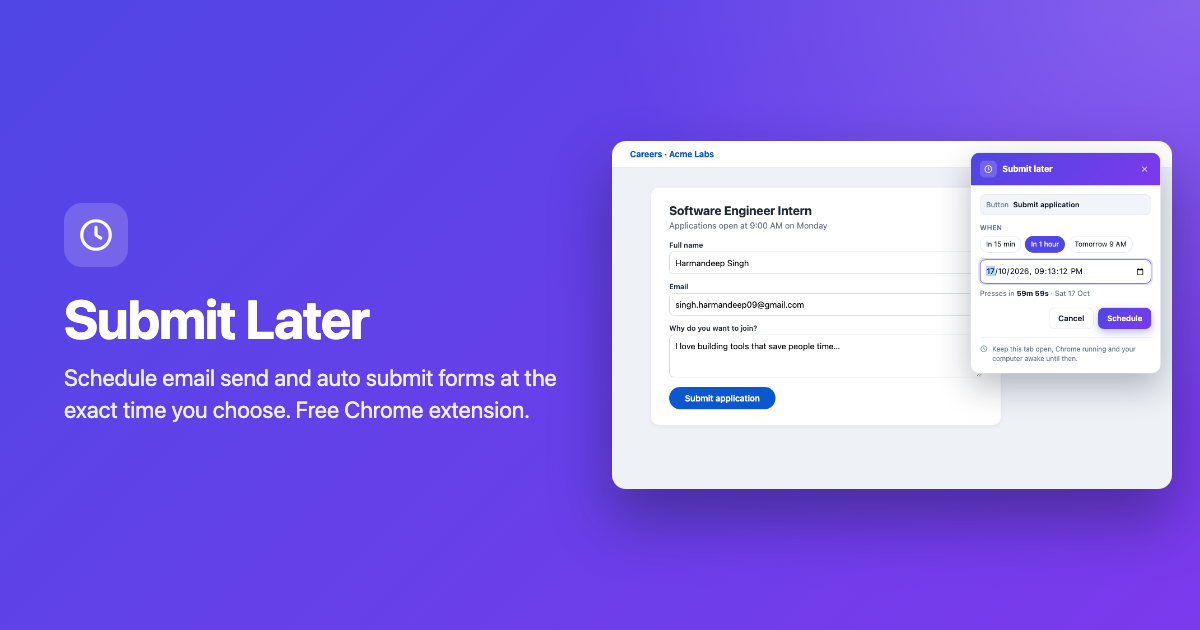
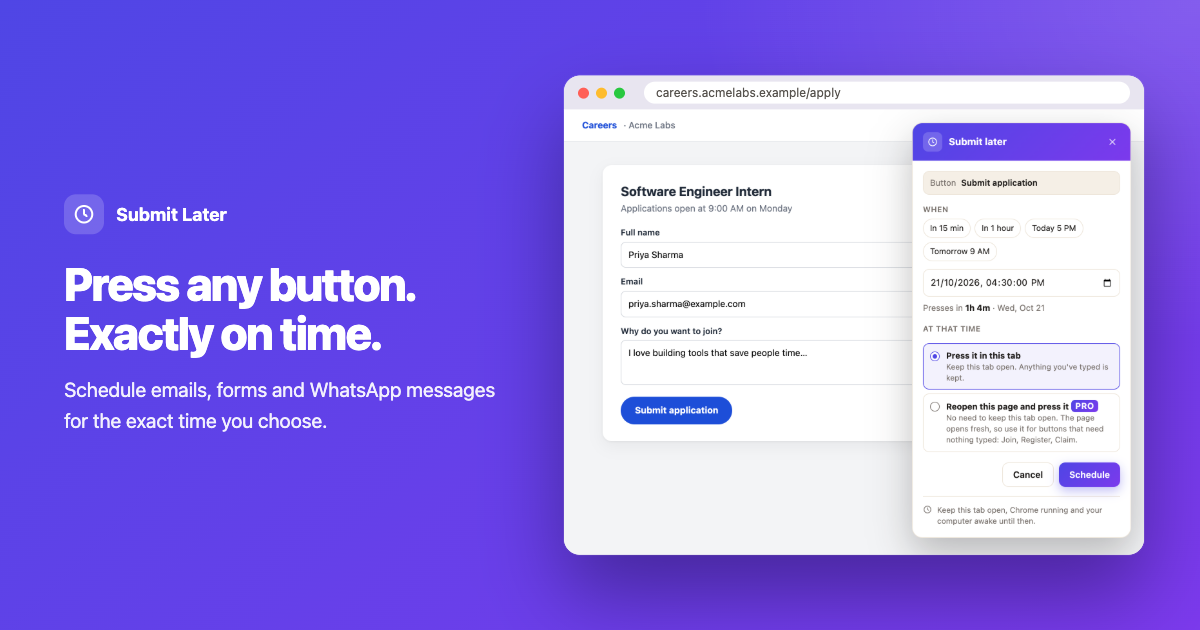
New UI in GIFs, How it works and mockups (waiting for extension 0.6.0 on the store)

Changed region(s): [[0.0308, 0.1206, 0.9867, 0.9952]]

diff --git a/index.html b/index.html
@@ -86,8 +86,12 @@
   </div>
   <div class="steps">
     <div class="step"><span class="ic g1"><svg viewBox="0 0 24 24" fill="none" stroke="currentColor" stroke-width="2" stroke-linecap="round" stroke-linejoin="round"><path d="M12 20h9"/><path d="M16.5 3.5a2.1 2.1 0 1 1 3 3L7 19l-4 1 1-4z"/></svg></span><b>Fill it in</b><p>Write the email, the WhatsApp message or the form exactly as you normally would.</p></div>
-    <div class="step"><span class="ic g2"><svg viewBox="0 0 24 24" fill="none" stroke="currentColor" stroke-width="2" stroke-linecap="round" stroke-linejoin="round"><circle cx="12" cy="12" r="8"/><circle cx="12" cy="12" r="2"/><path d="M12 2v3M12 19v3M2 12h3M19 12h3"/></svg></span><b>Pick the button</b><p>Click the Submit Later icon, then click Send, Submit or Join. It's only selected, not pressed.</p></div>
+    <div class="step"><span class="ic g2"><svg viewBox="0 0 24 24" fill="none" stroke="currentColor" stroke-width="2" stroke-linecap="round" stroke-linejoin="round"><circle cx="12" cy="12" r="8"/><circle cx="12" cy="12" r="2"/><path d="M12 2v3M12 19v3M2 12h3M19 12h3"/></svg></span><b>Pick the button</b><p>Click the Submit Later icon → <b>Pick a button to schedule</b>, then click Send, Submit or Join. It's only selected, not pressed.</p></div>
     <div class="step"><span class="ic g4"><svg viewBox="0 0 24 24" fill="none" stroke="currentColor" stroke-width="2" stroke-linecap="round" stroke-linejoin="round"><rect x="3" y="5" width="18" height="16" rx="2"/><path d="M3 10h18M8 3v4M16 3v4"/></svg></span><b>Choose the time</b><p>A quick pick or any date and time, to the second. It's pressed on time and you're notified.</p></div>
+  </div>
+  <div class="demo-pair">
+    <figure><div class="shot"><img src="how-it-works.gif" width="960" height="600" loading="lazy" alt="Animated demo: an email is written, the Send button is picked with Submit Later, Tomorrow 9 AM is chosen, and the next morning it's pressed on time and a notification confirms it."></div><figcaption><b>Any button</b> Pick it, choose the time, and it's pressed for you.</figcaption></figure>
+    <figure><div class="shot"><img src="whatsapp-demo.gif" width="960" height="600" loading="lazy" alt="Animated demo: two contacts are picked in Submit Later, a birthday message with a photo is scheduled for midnight, and at 12:00 AM WhatsApp Web sends it to each person one by one."></div><figcaption><b>WhatsApp messages</b> <span class="pro-badge">PRO</span> Pick people, write it, add a photo, and it's sent one by one.</figcaption></figure>
   </div>
 </section>
 
@@ -111,7 +115,7 @@
       </ul>
       <a class="btn primary" href="whatsapp-scheduler.html">Learn about WhatsApp scheduling <svg viewBox="0 0 24 24" fill="none" stroke="currentColor" stroke-width="2.4" stroke-linecap="round" stroke-linejoin="round"><path d="M5 12h14M13 6l6 6-6 6"/></svg></a>
     </div>
-    <div class="spot-visual"><div class="shot"><img src="whatsapp-demo.gif" width="960" height="600" loading="lazy" alt="Animated demo: a WhatsApp message is written in Submit Later, scheduled for midnight, and sent from WhatsApp Web at 12:00 AM."></div></div>
+    <div class="spot-visual"><div class="shot"><img src="whatsapp-demo.gif" width="960" height="600" loading="lazy" alt="Animated demo: two contacts are picked in Submit Later, a birthday message with a photo is scheduled for midnight, and at 12:00 AM WhatsApp Web sends it to each person one by one."></div></div>
   </div>
 
   <div class="spot rev">
@@ -154,11 +158,17 @@
       </ul>
     </div>
     <div class="spot-visual">
-      <div class="mock-ui">
-        <div class="mui-row"><span class="mui-av g2">M</span><span class="mui-txt"><b>Team stand-up</b><small>"Join now" · Mon 10:00 AM</small></span><span class="mui-tag">↻ Weekdays</span></div>
-        <div class="mui-row"><span class="mui-av g-wa">W</span><span class="mui-txt"><b>WhatsApp to +91 98765 43210</b><small>"Good morning! Daily update…" · 9:00 AM</small></span><span class="mui-tag">↻ Every day</span></div>
-        <div class="mui-row"><span class="mui-av g5">R</span><span class="mui-txt"><b>Weekly report</b><small>"Submit" · Fri 5:00 PM</small></span><span class="mui-tag">↻ Weekly</span></div>
-        <div class="mui-row"><span class="mui-av g4">✓</span><span class="mui-txt"><b>Daily check-in</b><small>Pressed "Check in" and the page responded</small></span><span class="mui-tag ok">Sent</span></div>
+      <div class="mock-ui" role="img" aria-label="The Submit Later popup: three repeating schedules under Upcoming, and the last result.">
+        <div class="mui-sec">Upcoming <span class="mui-count">3</span></div>
+        <div class="mui-list">
+          <div class="mui-li"><span class="mui-av g-wa">W</span><span class="mui-txt"><span class="mui-top"><b>WhatsApp message to Riya Sharma</b><span class="mui-cd">13h 2m</span></span><span class="mui-sub"><small>"Good morning! Daily update…" · 9:00 AM</small><span class="mui-tag">↻ Every day</span><span class="mui-x" aria-hidden="true"><svg viewBox="0 0 24 24" fill="none" stroke="currentColor" stroke-width="2.4" stroke-linecap="round"><path d="M6 6l12 12M18 6L6 18"/></svg></span></span></span></div>
+          <div class="mui-li"><span class="mui-av g2">M</span><span class="mui-txt"><span class="mui-top"><b>Team stand-up</b><span class="mui-cd">14h 2m</span></span><span class="mui-sub"><small>"Join now" · Mon 10:00 AM</small><span class="mui-tag">↻ Weekdays</span><span class="mui-x" aria-hidden="true"><svg viewBox="0 0 24 24" fill="none" stroke="currentColor" stroke-width="2.4" stroke-linecap="round"><path d="M6 6l12 12M18 6L6 18"/></svg></span></span></span></div>
+          <div class="mui-li"><span class="mui-av g5">R</span><span class="mui-txt"><span class="mui-top"><b>Weekly report</b><span class="mui-cd">3d 21h</span></span><span class="mui-sub"><small>"Submit" · Fri 5:00 PM</small><span class="mui-tag">↻ Weekly</span><span class="mui-x" aria-hidden="true"><svg viewBox="0 0 24 24" fill="none" stroke="currentColor" stroke-width="2.4" stroke-linecap="round"><path d="M6 6l12 12M18 6L6 18"/></svg></span></span></span></div>
+        </div>
+        <div class="mui-sec">Last result <span class="mui-link">See all</span></div>
+        <div class="mui-list">
+          <div class="mui-li"><span class="mui-av g4">D</span><span class="mui-txt"><span class="mui-top"><b>Daily check-in</b><span class="mui-tag ok">Sent</span></span><span class="mui-sub"><small>Pressed "Check in" and the page responded.</small></span></span></div>
+        </div>
       </div>
     </div>
   </div>

diff --git a/style.css b/style.css
@@ -402,7 +402,8 @@ a.contact-card:hover { border-color: var(--accent); text-decoration: none; box-s
   .browser { transform: none; }
   .float-a { left: 10px; bottom: -18px; }
   .float-b { display: none; }
-  .spot, .spot.rev { grid-template-columns: 1fr; gap: 32px; }
+  .spot, .spot.rev { grid-template-columns: minmax(0, 1fr); gap: 32px; }
+  .spot-visual, .mock-ui { min-width: 0; }
   .spot.rev .spot-text { order: 0; }
   .steps, .steps.four, .features, .mini-tiers, .contact-grid, .testimonials { grid-template-columns: 1fr; }
   .foot-grid { grid-template-columns: 1fr 1fr; }
@@ -452,3 +453,28 @@ a.contact-card:hover { border-color: var(--accent); text-decoration: none; box-s
 @media (max-width: 600px) {
   .tp { position: fixed; left: 16px; right: 16px; top: 64px; width: auto; max-width: none; }
 }
+
+/* Popup list mockup (home "Repeat" spot): same layout as the extension popup */
+.mui-sec { display: flex; align-items: center; justify-content: space-between; gap: 6px; margin: 0 2px 8px; font-size: 11px; font-weight: 800; letter-spacing: 0.06em; text-transform: uppercase; color: var(--muted); }
+.mui-sec:not(:first-child) { margin-top: 16px; }
+.mui-count { margin-right: auto; min-width: 18px; padding: 0 6px; border-radius: 999px; text-align: center; line-height: 18px; font-size: 10.5px; letter-spacing: 0; color: #fff; background: var(--accent); }
+.mui-link { font-size: 12.5px; font-weight: 700; letter-spacing: 0; text-transform: none; color: var(--accent); }
+.mui-list { border-radius: 14px; background: var(--card); border: 1px solid var(--line); overflow: hidden; }
+.mui-li { display: flex; align-items: flex-start; gap: 10px; padding: 11px 13px; }
+.mui-li + .mui-li { border-top: 1px solid var(--line); }
+.mui-li .mui-av { width: 28px; height: 28px; border-radius: 8px; font-size: 12.5px; }
+.mui-top, .mui-sub { display: flex; align-items: center; gap: 8px; min-width: 0; }
+.mui-top b { flex: 1; min-width: 0; font-size: 14px; overflow: hidden; text-overflow: ellipsis; white-space: nowrap; }
+.mui-sub { margin-top: 2px; }
+.mui-sub small { flex: 1; min-width: 0; overflow: hidden; text-overflow: ellipsis; white-space: nowrap; }
+.mui-cd { font-weight: 800; font-size: 13px; font-variant-numeric: tabular-nums; color: var(--accent); white-space: nowrap; }
+.mui-x { display: grid; place-items: center; color: var(--muted); }
+.mui-x svg { width: 13px; height: 13px; }
+
+/* How it works: the two demos side by side */
+.demo-pair { display: grid; grid-template-columns: 1fr 1fr; gap: 22px; margin-top: 34px; }
+.demo-pair figure { margin: 0; }
+.demo-pair figcaption { margin-top: 12px; color: var(--muted); font-size: 15px; }
+.demo-pair figcaption b { color: var(--fg); margin-right: 4px; }
+.demo-pair .pro-badge { padding: 1px 8px; font-size: 11px; vertical-align: 2px; margin-right: 4px; }
+@media (max-width: 760px) { .demo-pair { grid-template-columns: 1fr; } }

diff --git a/whatsapp-scheduler.html b/whatsapp-scheduler.html
@@ -66,7 +66,7 @@
     <div class="hero-visual">
       <div class="browser">
         <div class="browser-bar"><i></i><i></i><i></i><span>Scheduling a WhatsApp message</span></div>
-        <img src="whatsapp-demo.gif" width="960" height="600" alt="Animated demo: a birthday message is written in Submit Later, scheduled for midnight, and sent from WhatsApp Web at 12:00 AM.">
+        <img src="whatsapp-demo.gif" width="960" height="600" alt="Animated demo: two contacts are picked in Submit Later, a birthday message with a photo is scheduled for midnight, and at 12:00 AM WhatsApp Web sends it to each person one by one.">
       </div>
       <div class="float-card float-a"><span class="ok-dot"><svg viewBox="0 0 24 24" fill="none" stroke="currentColor" stroke-width="3" stroke-linecap="round" stroke-linejoin="round"><path d="M20 6L9 17l-5-5"/></svg></span><span><b>Sent at 12:00:00 AM</b><small>"Happy birthday Riya! 🎉"</small></span></div>
     </div>

diff --git a/auth.css b/auth.css
@@ -32,7 +32,7 @@
 /* A miniature of the extension's reminder, for flavour */
 .side-pill {
   display: flex; align-items: center; gap: 12px; width: min(340px, 100%); padding: 10px 12px; border-radius: 16px;
-  background: rgba(15, 23, 42, 0.55); backdrop-filter: blur(10px); border: 1px solid rgba(255, 255, 255, 0.12);
+  background: rgba(28, 25, 23, 0.55); backdrop-filter: blur(10px); border: 1px solid rgba(255, 255, 255, 0.12);
   box-shadow: 0 20px 40px rgba(15, 23, 42, 0.3);
 }
 .side-pill .ico { width: 34px; height: 34px; border-radius: 10px; display: grid; place-items: center; background: linear-gradient(135deg, var(--brand-1), var(--brand-2)); }
